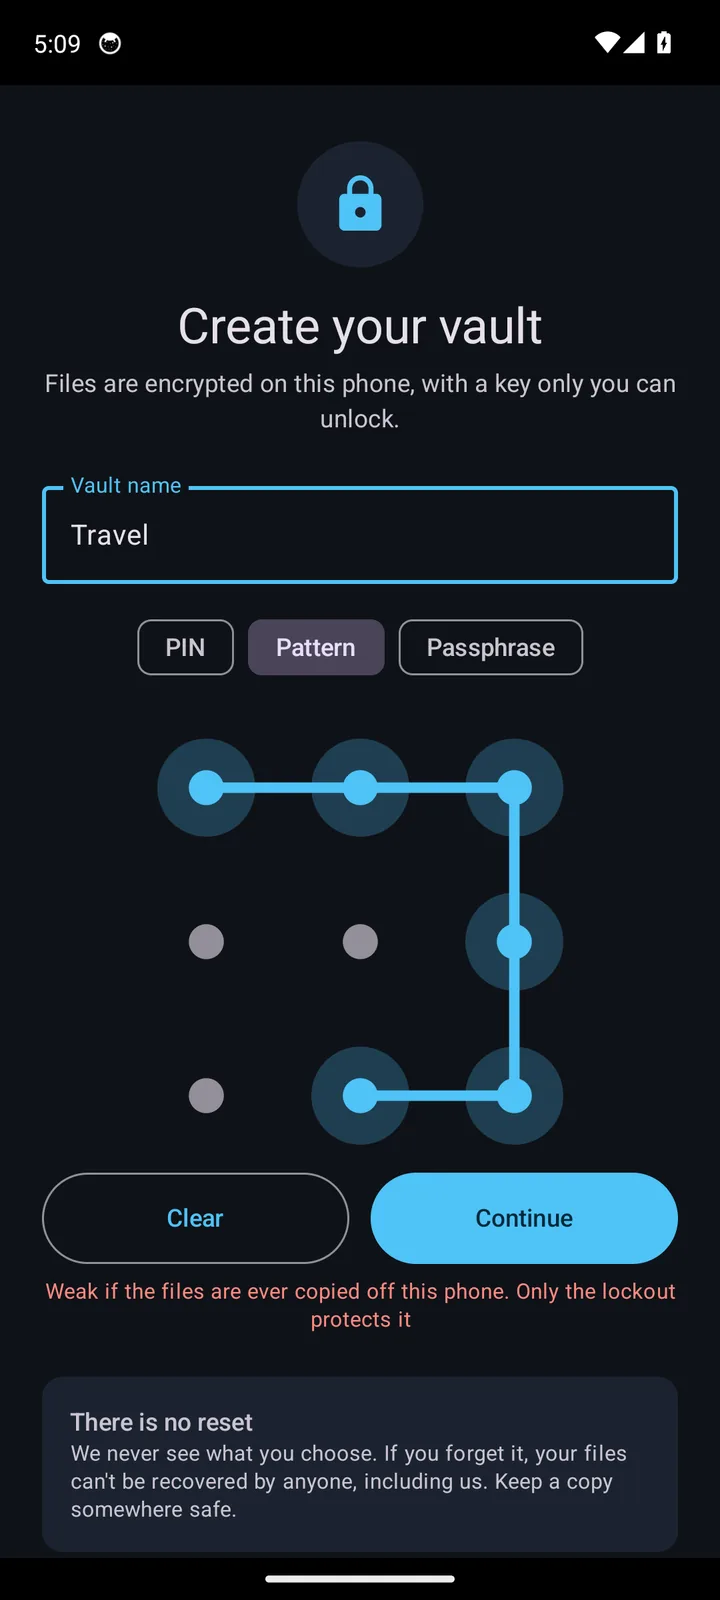
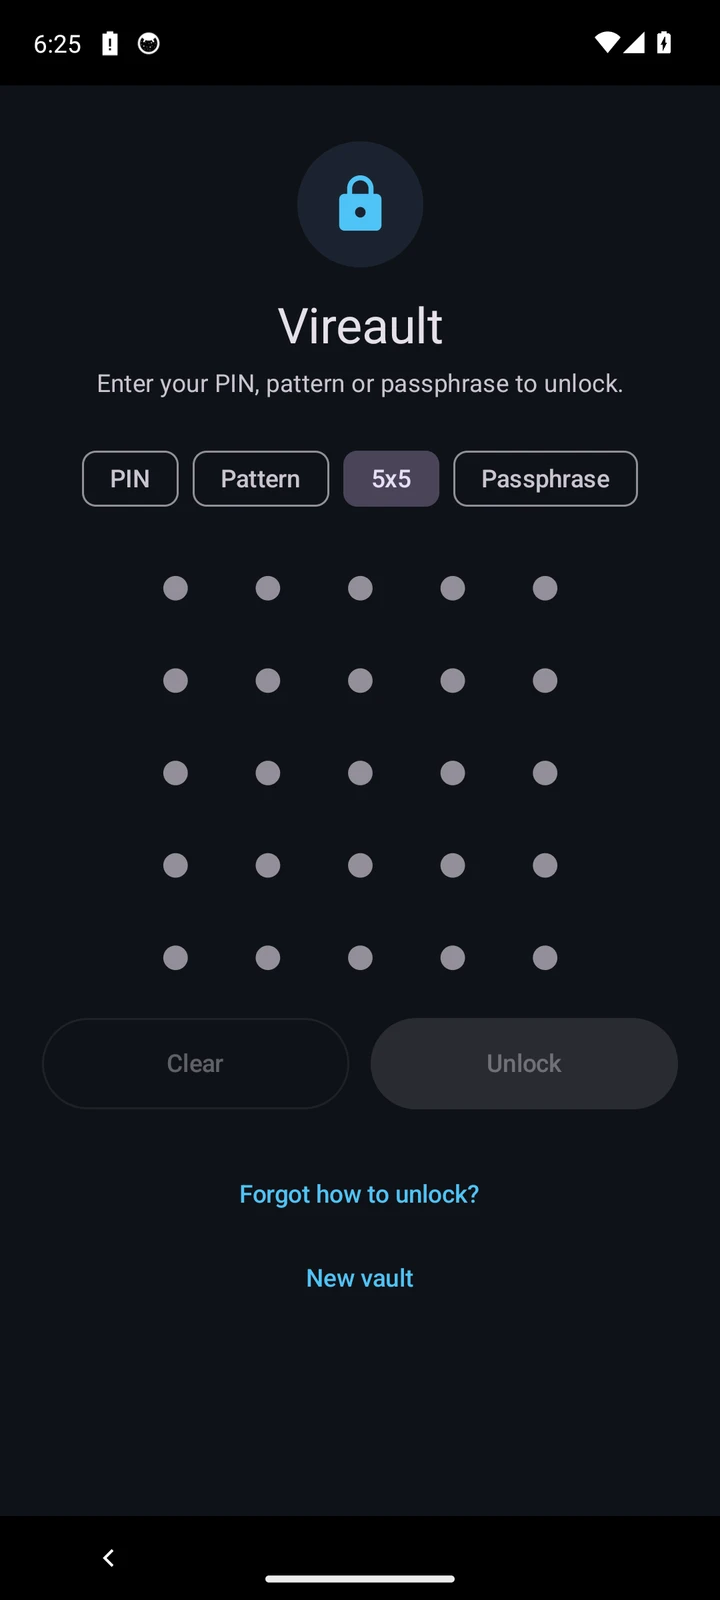
Update site for shipped features, 5x5 hero, and honest security limits
Replace the hero with a real 5x5 lock-screen capture and document folders,
notes, fingerprint unlock, recovery phrases, in-app capture, and Pro hidden
or decoy vaults. Qualify video spooling, screenshot blocking, and hidden-mode
limits on the security page.

diff --git a/src/data/site.ts b/src/data/site.ts
@@ -49,7 +49,7 @@ export const FEATURES = [
   {
     slug: 'unlock',
     title: 'PIN, pattern or passphrase',
-    short: 'Unlock with a PIN, a 3×3 pattern, or a passphrase. Lockout after wrong attempts.',
+    short: 'Unlock with a PIN, a 3×3 or 5×5 pattern, or a passphrase. Compatible devices can add fingerprint unlock. Lockout after wrong attempts.',
     href: '/features/unlock',
   },
   {
